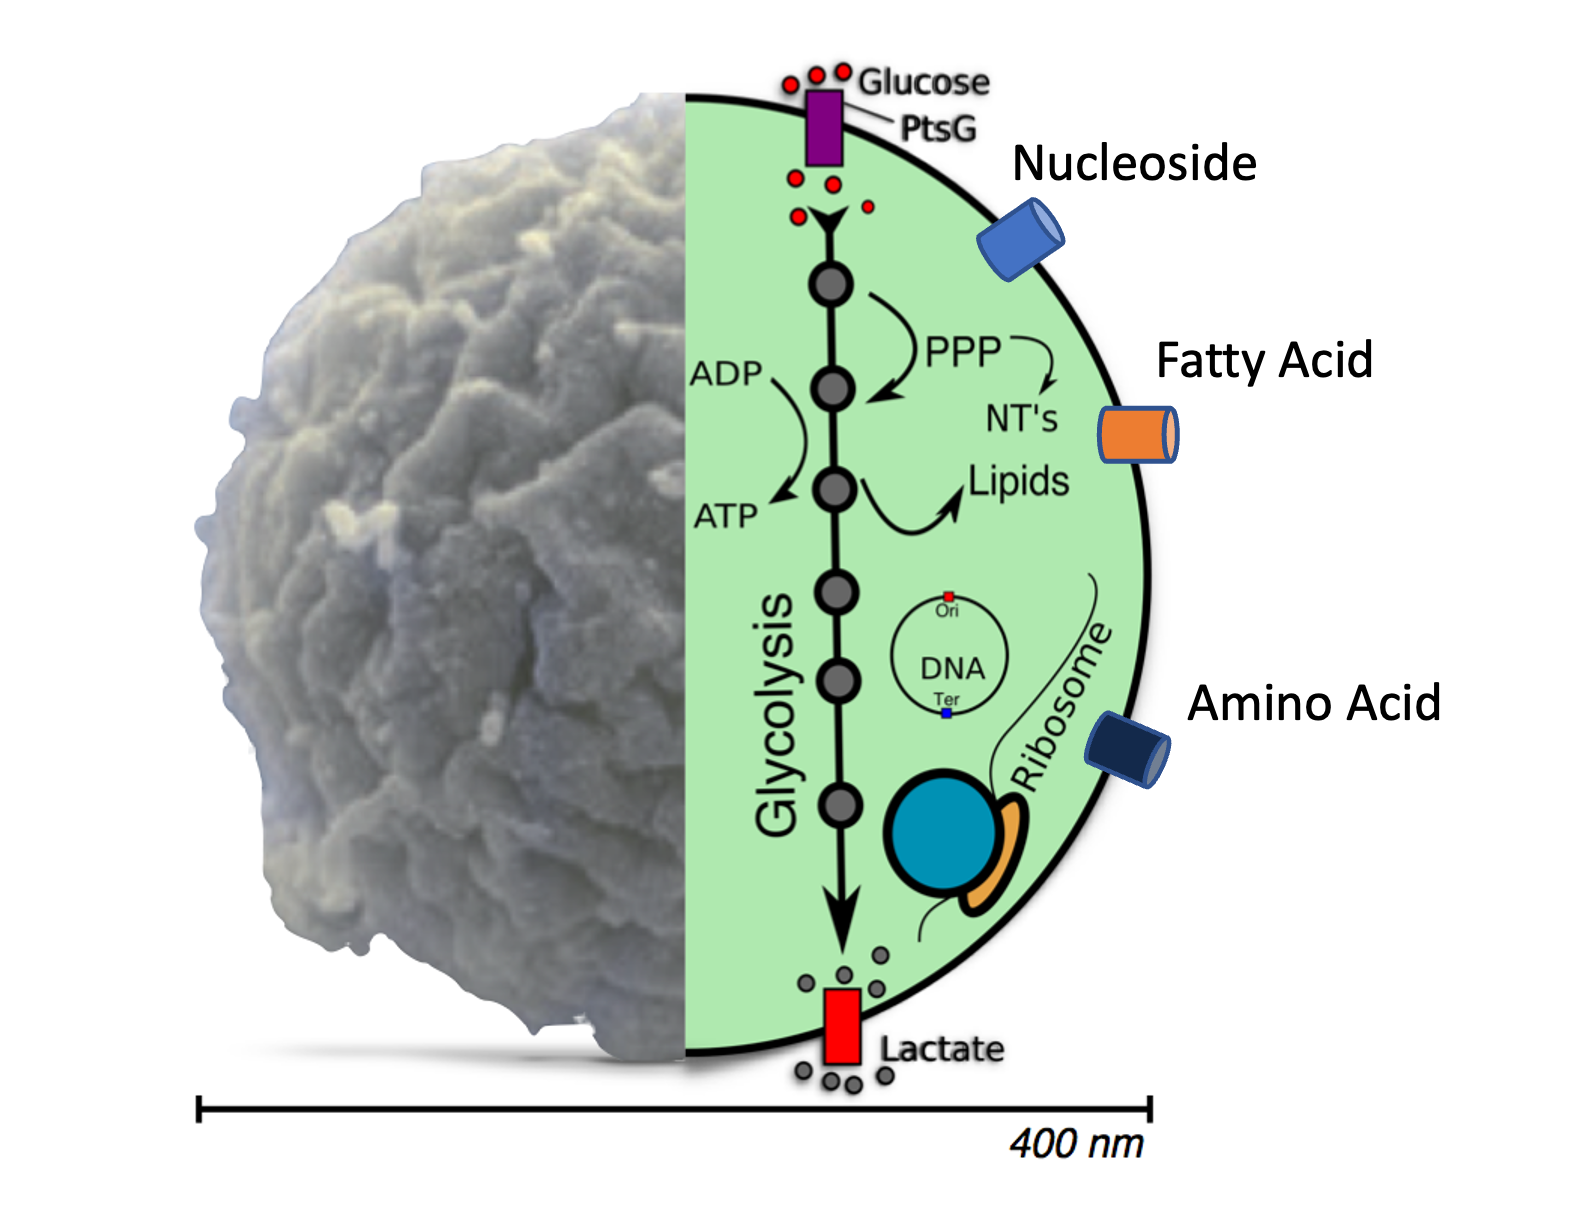
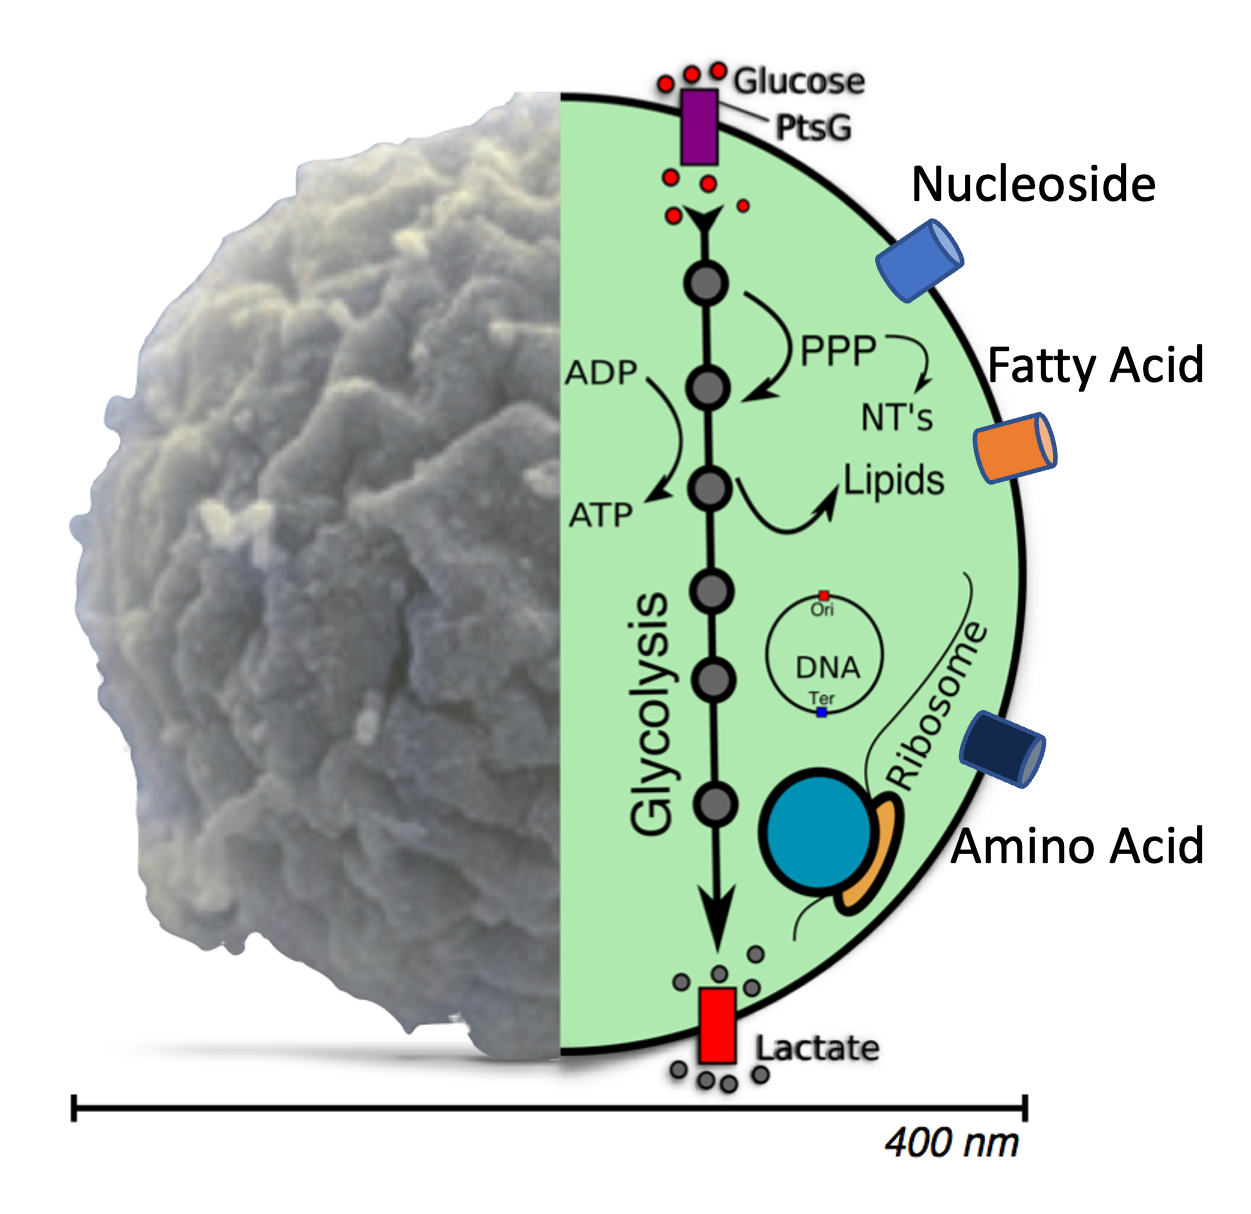
update Syn3Apng

diff --git a/CME/README.md b/CME/README.md
@@ -2,7 +2,7 @@
 
 ## Description:
 
-<img align="right" width="250" src="./figs/figs_WCM/syn3A.png">
+<img align="right" width="300" src="./figs/figs_WCM/syn3A_wcomplex.png">
 
 In ***Coupled Genetic Information Processes and Metabolism in the Minimal Cell*** tutorial, you will first learn the basics of stochastic kinetic simulation using a [bimolecular reaction](bimolecule/), followed by a model of [genetic information processing](GIP/) solved using chemical master equations (**CMEs**). The essential metabolism[^breuer_metabolism] in Syn3A imports nutrients from the growth medium and further converts them to generate ATP molecules, which energize cellular processes, and monomers for the synthesis of proteins, RNAs, and the chromosome. To simulate the [co-evolution of GIP and metabolism in Syn3A](WCM/), we employ a hybrid stochastic-deterministic algorithm[^bianchi_CMEODE], where stepwise communication describes the interactions between these two subsystems.
 

diff --git a/CME/WCM/README.md b/CME/WCM/README.md
@@ -1,6 +1,7 @@
 # CME-ODE Whole-Cell Model of a Genetically Minimal Cell, JCVI-Syn3A
 
 Now, we are at the last tutorial, the CME-ODE WCM of Syn3A.
+<img align="right" width="300" src="../figs/figs_WCM/syn3A_wcomplex.png">
 
 ## Outline:
 1. [Run CME/ODE Whole-Cell Model in Parallel](#1-run-cmeode-whole-cell-model-in-parallel)
